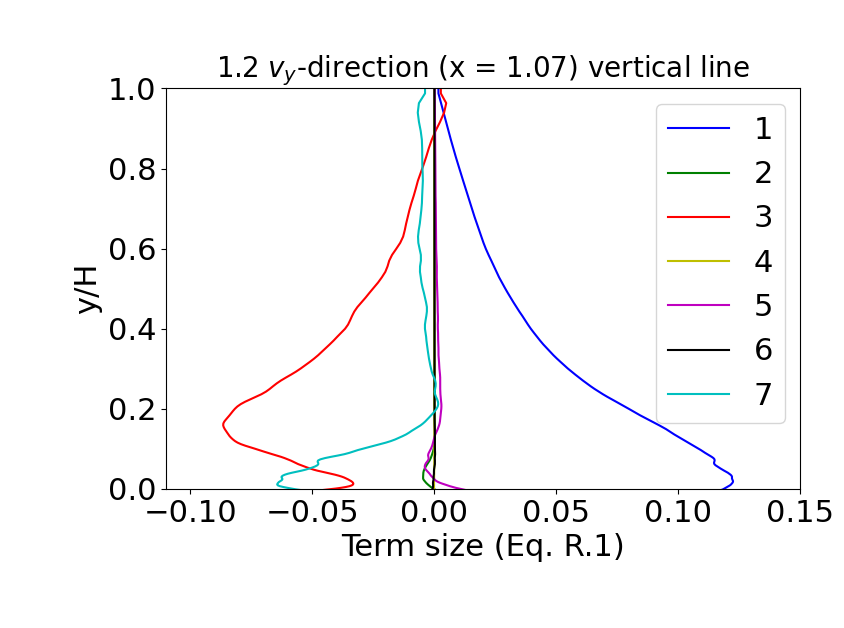
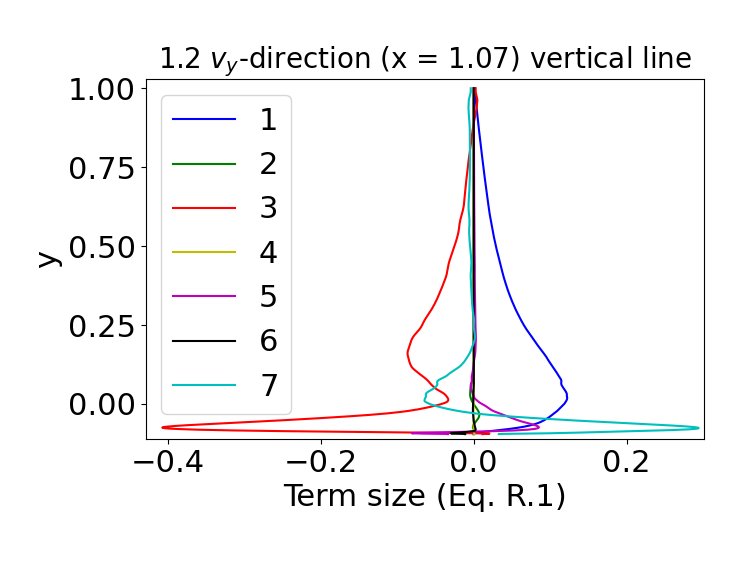
22 april

diff --git a/pl_vect.py b/pl_vect.py
@@ -87,8 +87,13 @@ k_RANS_2d[:,-1]= 1e-10
 vist_RANS_2d[:,-1]= nu
 
 # set Neumann of p at upper and lower boundaries
-p2d[:,1]=p2d[:,2]
+p2d[:,0]=p2d[:,1]
 p2d[:,-1]=p2d[:,-1-1]
+
+# Set Neumann u2d at upper
+u2d[:,-1]=u2d[:,-2]
+
+uu2d[:,-1] = uu2d[:,-2]
 
 # x and y are of the cell centers. The dphidx_dy routine needs the face coordinate, xf2d, yf2d
 # load them
@@ -238,7 +243,7 @@ plt.plot(duudx[i,:],y2d[i,:],'m-',   label='5')
 plt.plot(-nu*du2dy2[i,:],y2d[i,:],'k-',label='6')
 plt.plot(duvdy[i,:],y2d[i,:],'c-',   label='7')
 plt.xlabel('Term size $v_x$-direction (Eq. R.1)')
-plt.ylabel('y/H')
+plt.ylabel('y')
 plt.title('1.2 (x = 0.10) vertical line', fontsize=20)
 plt.axis([-0.2, 0.2, 0, 1])
 plt.legend()
@@ -253,7 +258,7 @@ plt.plot(duvdx[i,:],y2d[i,:],'m-',   label='5')
 plt.plot(-nu*dv2dy2[i,:],y2d[i,:],'k-',label='6')
 plt.plot(dvvdy[i,:],y2d[i,:],'c-',   label='7')
 plt.xlabel('Term size $v_y$-direction (Eq. R.1)')
-plt.ylabel('y/H')
+plt.ylabel('y')
 plt.title('1.2 (x = 0.10) vertical line', fontsize=20)
 plt.axis([-0.1, 0.1, 0, 1])
 plt.legend()
@@ -271,9 +276,9 @@ plt.plot(duudx[i,:],y2d[i,:],'m-',   label='5')
 plt.plot(-nu*du2dy2[i,:],y2d[i,:],'k-',label='6')
 plt.plot(duvdy[i,:],y2d[i,:],'c-',   label='7')
 plt.xlabel('Term size $v_x$-direction (Eq. R.1)')
-plt.ylabel('y/H')
+plt.ylabel('y')
 plt.title('1.2 (x = 1.07) vertical line', fontsize=20)
-plt.axis([-0.25, 0.1, 0, 1])
+plt.axis([-0.25, 0.25, np.min(y2d), 1])
 plt.legend()
 plt.tight_layout()
 # y-dir
@@ -286,9 +291,9 @@ plt.plot(duvdx[i,:],y2d[i,:],'m-',   label='5')
 plt.plot(-nu*dv2dy2[i,:],y2d[i,:],'k-',label='6')
 plt.plot(dvvdy[i,:],y2d[i,:],'c-',   label='7')
 plt.xlabel('Term size (Eq. R.1)')
-plt.ylabel('y/H')
+plt.ylabel('y')
 plt.title('1.2 $v_y$-direction (x = 1.07) vertical line', fontsize=20)
-plt.axis([-0.11, 0.15, 0, 1])
+plt.axis([-0.45, 0.28, np.min(y2d), 1])
 plt.legend()
 plt.tight_layout()
 
@@ -306,7 +311,7 @@ plt.plot(duvdy[i,:],y2d[i,:],'c-',   label='7')
 plt.xlabel('Term size (Eq. R.1)')
 plt.ylabel('y/H')
 plt.title('1.2 $v_x$-direction (x = 1.07) vertical line', fontsize=20)
-plt.axis([-0.1, 0.1, 0, 0.01])
+plt.axis([-0.3, 0.25, np.min(y2d), 0.1])
 plt.legend()
 plt.tight_layout()
 # y-dir
@@ -321,7 +326,7 @@ plt.plot(dvvdy[i,:],y2d[i,:],'c-',   label='7')
 plt.xlabel('Term size $v_y$-direction (Eq. R.1)')
 plt.ylabel('y/H')
 plt.title('1.2 (x = 1.07) vertical line', fontsize=20)
-plt.axis([-0.11, 0.15, 0, 0.01])
+plt.axis([-0.45, 0.28, np.min(y2d), 0.1])
 plt.legend()
 plt.tight_layout()
 
@@ -377,14 +382,19 @@ k=10# plot every
 plt.quiver(x2d[::k,::k], y2d[::k,::k], F_S_x_norm[::k,::k], F_S_y_norm[::k,::k], width = 0.007, scale=13)
 plt.plot(x2d[:,0],y2d[:,0], 'k-')
 plt.xlabel("$x$"); plt.ylabel("$y$")
-plt.title("1.4) Zoom in, Normal Stresses Vector Plot", fontsize=20)
+plt.title("1.4) Zoom in, Shear Stress Vector Plot", fontsize=20)
 plt.axis([0, 2, -0.3, 0.2])
 plt.tight_layout()
+
+
+dp_norm = np.sqrt(np.multiply(dpdx,dpdx) + np.multiply(dpdy,dpdy))
+dpdx[:,0] = np.divide(dpdx[:,0], dp_norm[:,0])
+dpdy[:,0] = np.divide(dpdy[:,0], dp_norm[:,0])
 
 # Pressure
 fig43 = plt.figure("Figure 1.4c")
 k=10# plot every
-plt.quiver(x2d[::k,::k], y2d[::k,::k], dpdx[::k,::k], dpdy[::k,::k], width = 0.007, scale=95)
+plt.quiver(x2d[::k,::k], y2d[::k,::k], dpdx[::k,::k], dpdy[::k,::k], width = 0.007, scale=10)
 plt.plot(x2d[:,0],y2d[:,0], 'k-')
 plt.xlabel("$x$"); plt.ylabel("$y$")
 plt.title("1.4) Pressure Gradient Vector Plot", fontsize=20)
@@ -449,7 +459,7 @@ plt.plot(P_k[i,:,4],y2d[i,:],'k-',label='Total')
 plt.xlabel('Turbulent Energy Production')
 plt.ylabel('y/H')
 plt.title('1.5) x = 1.07 vertical line', fontsize=20)
-plt.axis([-0.03, 0.045, 0, 1])
+plt.axis([-0.03, 0.045, np.min(y2d), 1])
 plt.legend()
 plt.tight_layout()
 
@@ -461,7 +471,7 @@ i=5
 plt.plot(P_k[i,:,4],y2d[i,:],'y-',label='Production')
 plt.plot(diss_RANS_2d[i,:],y2d[i,:],'k-',label='Dissipation')
 plt.xlabel('Turbulent Energy')
-plt.ylabel('y/H')
+plt.ylabel('y')
 plt.title('1.6) x = 0.10 vertical line', fontsize=20)
 plt.axis([-0.05, 0.05, 0, 1])
 plt.legend()
@@ -473,9 +483,9 @@ i=50
 plt.plot(P_k[i,:,4],y2d[i,:],'y-',label='Production')
 plt.plot(diss_RANS_2d[i,:],y2d[i,:],'k-',label='Dissipation')
 plt.xlabel('Turbulent Energy')
-plt.ylabel('y/H')
+plt.ylabel('y')
 plt.title('1.6) x = 1.07 vertical line', fontsize=20)
-plt.axis([-0.05, 0.05, 0, 1])
+plt.axis([-0.05, 0.05, np.min(y2d), 1])
 plt.legend()
 plt.tight_layout()
 
@@ -542,7 +552,7 @@ Phi12  = Phi121 + Phi122
 Phi22  = Phi221 + Phi222
 
 ## Turbulent Diffusion
-#nu_t = Cmu*np.divide(np.multiply(k_RANS_2d, vist_RANS_2d), diss_RANS_2d)
+nu_t = Cmu*np.divide(np.multiply(k_RANS_2d, vist_RANS_2d), diss_RANS_2d)
 # 11 
 D111, empty = dphidx_dy(xf2d,yf2d, np.multiply(vist_RANS_2d/sigma_k, duudx))
 empty, D112 = dphidx_dy(xf2d,yf2d, np.multiply(vist_RANS_2d/sigma_k, duudy))
@@ -616,7 +626,7 @@ plt.plot(D11t[i,:],y2d[i,:],'m-',   label='5')
 plt.plot(-Eps11[i,:],y2d[i,:],'k-',label='6')
 plt.plot(Total_Stress11[i,:],y2d[i,:],'c-',label='7')
 plt.xlabel('Reynold Stress terms 11')
-plt.ylabel('y/H')
+plt.ylabel('y')
 plt.title('1.7 (x = 0.10) vertical line', fontsize=20)
 plt.axis([-0.03, 0.03, 0, 1])
 plt.legend()
@@ -633,7 +643,7 @@ plt.plot(D12t[i,:],y2d[i,:],'m-',   label='5')
 plt.plot(-Eps12[i,:],y2d[i,:],'k-',label='6')
 plt.plot(Total_Stress12[i,:],y2d[i,:],'c-',label='7')
 plt.xlabel('Reynold Stress Terms 12')
-plt.ylabel('y/H')
+plt.ylabel('y')
 plt.title('1.7 (x = 0.10) vertical line', fontsize=20)
 plt.axis([-0.06, 0.06, 0, 1])
 plt.legend()
@@ -650,22 +660,22 @@ plt.plot(D22t[i,:],y2d[i,:],'m-',   label='5')
 plt.plot(-Eps22[i,:],y2d[i,:],'k-',label='6')
 plt.plot(Total_Stress22[i,:],y2d[i,:],'c-',label='7')
 plt.xlabel('Reynold Stress terms 22')
-plt.ylabel('y/H')
+plt.ylabel('y')
 plt.title('1.7 (x = 0.10) vertical line', fontsize=20)
 plt.axis([-0.01, 0.02, 0, 1])
 plt.legend()
 plt.tight_layout()
 
 # ---- A_1.8)
-Bouss11 = np.multiply(-vist_RANS_2d, 2*dudx) + (2/3)*k_RANS_2d
-Bouss12 = np.multiply(-vist_RANS_2d, (dudy + dvdx))
-Bouss22 = np.multiply(-vist_RANS_2d, 2*dvdy) + (2/3)*k_RANS_2d
+Bouss11 = np.multiply(-nu_t, 2*dudx) + (2/3)*k_RANS_2d
+Bouss12 = np.multiply(-nu_t, (dudy + dvdx))
+Bouss22 = np.multiply(-nu_t, 2*dvdy) + (2/3)*k_RANS_2d
 
 fig81 = plt.figure("1.8a")
 plt.contourf(x2d,y2d, Bouss11, 50, levels = np.linspace(np.min(uv2d), np.max(uu2d), 50))
 plt.xlabel('$x$')
 plt.ylabel("$y$")
-plt.title("Bouss11 Approx.")
+plt.title("Bouss Approx. uu")
 plt.colorbar()
 plt.tight_layout()
 
@@ -673,7 +683,7 @@ fig82 = plt.figure("1.8b")
 plt.contourf(x2d,y2d, Bouss12, 50, levels = np.linspace(np.min(uv2d), np.max(uu2d), 50))
 plt.xlabel('$x$')
 plt.ylabel("$y$")
-plt.title("Bouss12 Approx.")
+plt.title("Bouss Approx. uv")
 plt.colorbar()
 plt.tight_layout()
 
@@ -681,7 +691,7 @@ fig83 = plt.figure("1.8c")
 plt.contourf(x2d,y2d, Bouss22, 50, levels = np.linspace(np.min(uv2d), np.max(uu2d), 50))
 plt.xlabel('$x$')
 plt.ylabel("$y$")
-plt.title("Bouss22 Approx.")
+plt.title("Bouss Approx. vv")
 plt.colorbar()
 plt.tight_layout()
 
@@ -727,7 +737,8 @@ for i in range(ni):
 limiter = np.divide(k_RANS_2d, 3*np.abs(Eigenvalues[:,:,0])) # numerically
 limiter = np.multiply(np.sqrt(2*np.divide(1,np.multiply(s11,s11))),k_RANS_2d/3) # algebraic
 
-diff_nu_t = vist_RANS_2d - limiter
+#diff_nu_t = vist_RANS_2d - limiter
+diff_nu_t = nu_t - limiter
 
 fig101 = plt.figure("Figure 1.10a")
 i=5
